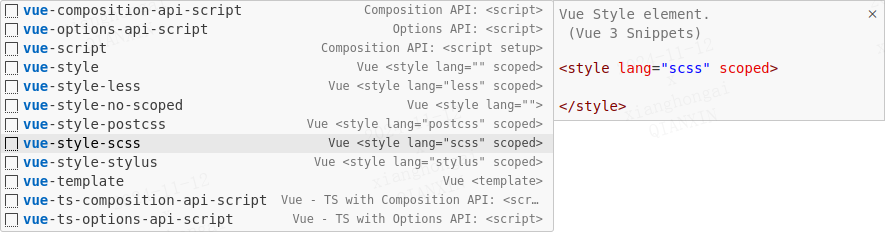
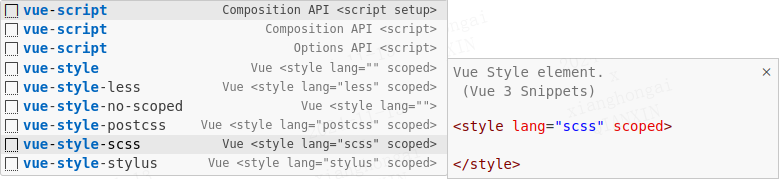
feat: upgrade SFC (2.0.0)

diff --git a/README.md b/README.md
@@ -30,15 +30,25 @@ This extension is not recommended for Vue 2.x, Please create Profiles in VS Code
 
 ## Introduction 📚
 
+"YES, YES, VERY SMOOTH, SUPER SMOOTH".
+
 There is no need to deliberately memorize it, you can generate code according to the Vue API **partial abbreviations**, and special handling required to **reduce conflicts**. You only need to understand the Extension design rules of this extension to release your energy.
+
+--
+
+来自一线、为了顺手调了又调的扩展 😎。
+
+理解本扩展的设计之后 (Vue API 部分缩写，以及减少冲突需要特别的处理方式)，无需刻意去死记硬背，几乎没有记忆成本，释放你的小宇宙！ ヾ(´︶`*)ﾉ♬ (Vue3 很多 Composition API 更接近语言了，不像 Options API 那样模式化)
+
+## Design 🖖
+
+Forget the framework, Focus on the business.
 
 --
 
 框架，框架，有别于灵活的语言，框架就是限定了各种条条框框，让开发者在限/约定的 API 中做事情；因此，开发者在编码过程中，在框架层面输入的字符要少之有少，应当通过代码片段或 AIGC 快速创建框架相关的代码结构，将更多的精力聚焦在业务逻辑代码上；本扩展就是用于辅助生成框架侧的代码。
 
 本扩展提供了 Vue 3 技术栈的代码片段，包括 Options API 、Composition API 和 Vue Router 4.x。
-
-理解本扩展的设计之后 (Vue API 部分缩写，以及减少冲突需要特别的处理方式)，几乎没有记忆成本，至少能帮助您提升 60% 的效率 ヾ(´︶`*)ﾉ♬ (Vue3 很多 Composition API 更接近语言了，不像 Options API 那样模式化)
 
 例如，监听一个 Props 值：
 
@@ -55,9 +65,9 @@ watch(
 );
 ```
 
-To get the above code, you only need to understand it as: <small><em><strong><u style="color: red;">w</u></strong>atch <strong><u style="color: red;">p</u></strong>rop<strong><u style="color: red;">s</u></strong> <strong><u style="color: red;">d</u></strong>eep <strong><u style="color: red;">i</u></strong>mmediate</em></small>, and then enter `wpsdi` through VS Code's Suggest Match and press Enter.
+To get the above code, you only need to understand it as: <small><em><strong><u style="color: red;">w</u></strong>atch props <strong><u style="color: red;">d</u></strong>eep <strong><u style="color: red;">i</u></strong>mmediate</em></small>, and then enter `wdi` through VS Code's Suggest Match and press Enter.
 
-想得到上面这一段代码，只需要理解为：<small><em><strong><u style="color: red;">w</u></strong>atch <strong><u style="color: red;">p</u></strong>rop<strong><u style="color: red;">s</u></strong> <strong><u style="color: red;">d</u></strong>eep <strong><u style="color: red;">i</u></strong>mmediate</em></small>, 然后通过 VS Code 自带的联想功能，输入 `wpsdi` 回车即可。
+想得到上面这一段代码，只需要理解为：<small><em><strong><u style="color: red;">w</u></strong>atch props <strong><u style="color: red;">d</u></strong>eep <strong><u style="color: red;">i</u></strong>mmediate</em></small>, 然后通过 VS Code 自带的联想功能，输入 `wdi` 回车即可。
 
 再例如，声明一个 Props 属性：
 
@@ -99,28 +109,20 @@ Same as above...
 Recommended editor settings (建议配置编辑器):
 
 ```
-"editor.inlineSuggest.enabled": true,
-"editor.suggestSelection": "first",
-"editor.suggest.localityBonus": true,
-"editor.suggest.preview": true,
+"editor.snippetSuggestions": "top",
 ```
 
 ### Single-File Components / 单文件组件
 
-The `vue` prefix generates Vue Single-File Components, Some examples:
+The `sfc` prefix generates Vue <strong><u style="color: red;">S</u></strong>ingle-<strong><u style="color: red;">F</u></strong>ile <strong><u style="color: red;">C</u></strong>omponents, Some examples:
 
-通过 `vue` 前缀触发，包涵大量创建 Vue 单文件组件的代码片段，部分示例如下：
+通过 `sfc` 前缀触发，包涵大量创建 Vue 单文件组件的代码片段，部分示例如下：
 
-| Prefix                               | VS Code Suggest Match | Snippet                                                                                                                                                                                                                                                                                                                                                                                                                                                                                                                                                  |
-|--------------------------------------|-----------------------|----------------------------------------------------------------------------------------------------------------------------------------------------------------------------------------------------------------------------------------------------------------------------------------------------------------------------------------------------------------------------------------------------------------------------------------------------------------------------------------------------------------------------------------------------------|
-| `vue`                                |                       | <small><em>\<template\><br>&nbsp;&nbsp;\<div\><br>&nbsp;&nbsp;&nbsp;&nbsp;\<!-- --\><br>&nbsp;&nbsp;\</div\><br>\</template\><br><br>\<script setup\><br><br>\</script\></em></small>                                                                                                                                                                                                                                                                                                                                                                    |
-| `vue` <br><br> `vue-composition-api` |                       | <small><em>\<template\><br>&nbsp;&nbsp;\<div\><br>&nbsp;&nbsp;&nbsp;&nbsp;\<!-- --\><br>&nbsp;&nbsp;\</div\><br>\</template\><br><br>\<script\><br>import { ref } from 'vue';<br><br>export default {<br>&nbsp;&nbsp;setup() {<br>&nbsp;&nbsp;&nbsp;&nbsp;const feature = ref();<br><br>&nbsp;&nbsp;&nbsp;&nbsp;return {<br>&nbsp;&nbsp;&nbsp;&nbsp;&nbsp;&nbsp;<br>&nbsp;&nbsp;&nbsp;&nbsp;};<br>&nbsp;&nbsp;},<br>};<br>\</script\></em></small>                                                                                                       |
-| `vue` <br><br> `vue-options-api`     |                       | <small><em>\<template\><br>&nbsp;&nbsp;\<div\><br>&nbsp;&nbsp;&nbsp;&nbsp;\<!-- --\><br>&nbsp;&nbsp;\</div\><br>\</template\><br><br>\<script\><br>export default {<br>&nbsp;&nbsp;name: 'TestIndex',<br><br>&nbsp;&nbsp;data() {<br>&nbsp;&nbsp;&nbsp;&nbsp;return {<br>&nbsp;&nbsp;&nbsp;&nbsp;&nbsp;&nbsp;<br>&nbsp;&nbsp;&nbsp;&nbsp;};<br>&nbsp;&nbsp;},<br><br>&nbsp;&nbsp;mounted() {<br>&nbsp;&nbsp;&nbsp;&nbsp;<br>&nbsp;&nbsp;},<br><br>&nbsp;&nbsp;methods: {<br>&nbsp;&nbsp;&nbsp;&nbsp;<br>&nbsp;&nbsp;},<br>};<br>\</script\></em></small> |
-| ...                                  |                       |                                                                                                                                                                                                                                                                                                                                                                                                                                                                                                                                                          |
-
-Full prefix screenshot (SFC) / 完整前缀截图 (单文件组件):
-
-![](./art//assets/newVue.png)
+| Full prefix screenshot (SFC) / 完整前缀截图 (单文件组件) |
+|----------------------------------------------------------|
+| ![](./art//assets/sfc-composition-api-script-setup.png)  |
+| ![](./art//assets/sfc-composition-api.png)               |
+| ![](./art//assets/sfc-options-api.png)                   |
 
 ### Vue Language Blocks / SFC 语法定义
 
@@ -135,14 +137,14 @@ The `vue-style` prefix generates a `<style>` language block, which contains diff
 
 `vue-style` 前缀生成 `<style>` 语言块，包含不同样式预处理语言块。
 
-| Prefix                       | VS Code Suggest Match | Snippet                                                                                                                                                                                                                                                                                                                                                                                                                        |
-|------------------------------|-----------------------|--------------------------------------------------------------------------------------------------------------------------------------------------------------------------------------------------------------------------------------------------------------------------------------------------------------------------------------------------------------------------------------------------------------------------------|
-| `vue-script`                 |                       | <small><em>\<script setup\><br><br>\</script\></em></small>                                                                                                                                                                                                                                                                                                                                                                    |
-| `vue-script-composition-api` |                       | <small><em>\<script\><br>import { ref } from 'vue';<br><br>export default {<br>&nbsp;&nbsp;setup() {<br>&nbsp;&nbsp;&nbsp;&nbsp;const feature = ref();<br><br>&nbsp;&nbsp;&nbsp;&nbsp;return {<br>&nbsp;&nbsp;&nbsp;&nbsp;&nbsp;&nbsp;<br>&nbsp;&nbsp;&nbsp;&nbsp;};<br>&nbsp;&nbsp;},<br>};<br>\</script\></em></small>                                                                                                       |
-| `vue-script-options-api`     |                       | <small><em>\<script\><br>export default {<br>&nbsp;&nbsp;name: 'TestIndex',<br><br>&nbsp;&nbsp;data() {<br>&nbsp;&nbsp;&nbsp;&nbsp;return {<br>&nbsp;&nbsp;&nbsp;&nbsp;&nbsp;&nbsp;<br>&nbsp;&nbsp;&nbsp;&nbsp;};<br>&nbsp;&nbsp;},<br><br>&nbsp;&nbsp;mounted() {<br>&nbsp;&nbsp;&nbsp;&nbsp;<br>&nbsp;&nbsp;},<br><br>&nbsp;&nbsp;methods: {<br>&nbsp;&nbsp;&nbsp;&nbsp;<br>&nbsp;&nbsp;},<br>};<br>\</script\></em></small> |
-| `vue-style-scss`             |                       | <small><em>\<style lang="scss" scoped\><br><br>\</style\></em></small>                                                                                                                                                                                                                                                                                                                                                         |
-| `vue-style-less`             |                       | <small><em>\<style lang="less" scoped\><br><br>\</style\></em></small>                                                                                                                                                                                                                                                                                                                                                         |
-| ...                          |                       |                                                                                                                                                                                                                                                                                                                                                                                                                                |
+| Prefix                                         | VS Code Suggest Match | Snippet                                                                                                                                                                                                                                                                                                                                                                                                                        |
+|------------------------------------------------|-----------------------|--------------------------------------------------------------------------------------------------------------------------------------------------------------------------------------------------------------------------------------------------------------------------------------------------------------------------------------------------------------------------------------------------------------------------------|
+| `vue-script`, Composition API `<script setup>` |                       | <small><em>\<script setup\><br>import { ref } from 'vue';<br><br>const feature = ref();<br>\</script\></em></small>                                                                                                                                                                                                                                                                                                            |
+| `vue-script`, Composition API                  |                       | <small><em>\<script\><br>import { ref } from 'vue';<br><br>export default {<br>&nbsp;&nbsp;setup() {<br>&nbsp;&nbsp;&nbsp;&nbsp;const feature = ref();<br><br>&nbsp;&nbsp;&nbsp;&nbsp;return {<br>&nbsp;&nbsp;&nbsp;&nbsp;&nbsp;&nbsp;<br>&nbsp;&nbsp;&nbsp;&nbsp;};<br>&nbsp;&nbsp;},<br>};<br>\</script\></em></small>                                                                                                       |
+| `vue-script`, Options API                      |                       | <small><em>\<script\><br>export default {<br>&nbsp;&nbsp;name: 'TestIndex',<br><br>&nbsp;&nbsp;data() {<br>&nbsp;&nbsp;&nbsp;&nbsp;return {<br>&nbsp;&nbsp;&nbsp;&nbsp;&nbsp;&nbsp;<br>&nbsp;&nbsp;&nbsp;&nbsp;};<br>&nbsp;&nbsp;},<br><br>&nbsp;&nbsp;mounted() {<br>&nbsp;&nbsp;&nbsp;&nbsp;<br>&nbsp;&nbsp;},<br><br>&nbsp;&nbsp;methods: {<br>&nbsp;&nbsp;&nbsp;&nbsp;<br>&nbsp;&nbsp;},<br>};<br>\</script\></em></small> |
+| `vue-style-scss`                               |                       | <small><em>\<style lang="scss" scoped\><br><br>\</style\></em></small>                                                                                                                                                                                                                                                                                                                                                         |
+| `vue-style-less`                               |                       | <small><em>\<style lang="less" scoped\><br><br>\</style\></em></small>                                                                                                                                                                                                                                                                                                                                                         |
+| ...                                            |                       |                                                                                                                                                                                                                                                                                                                                                                                                                                |
 
 Full prefix screenshot (Language Blocks) / 完整前缀截图 (SFC 语法定义):
 
@@ -196,16 +198,16 @@ The prefix screenshot (Computed) / 前缀截图:
 1. 直接生成 (Prefix)：`wdi` =  <small><em><strong><u style="color: red;">w</u></strong></em>atch-props-<em><strong><u style="color: red;">d</u></strong></em>eep-<em><strong><u style="color: red;">i</u></strong></em>mmediate</small>
 2. 联想匹配 (Suggest Match)：`wps` = <small><em><strong><u style="color: red;">w</u></strong>atch-<strong><u style="color: red;">p</u></strong>rop<strong><u style="color: red;">s</u></strong></em></small>。
 
-| Prefix                           | VS Code Suggest Match | Snippet                                                                                                                                                                                                                                                                                                                                                                                                                                                                                                                 |
-|----------------------------------|-----------------------|-------------------------------------------------------------------------------------------------------------------------------------------------------------------------------------------------------------------------------------------------------------------------------------------------------------------------------------------------------------------------------------------------------------------------------------------------------------------------------------------------------------------------|
-| `watch-props`                    |                       | <small><em><strong><u style="color: red;">w</u></strong>atch(<br>&nbsp;&nbsp;() => <strong><u style="color: red;">p</u></strong>rop<strong><u style="color: red;">s</u></strong>.property,<br>&nbsp;&nbsp;async (newValue, oldValue) => {<br>&nbsp;&nbsp;&nbsp;&nbsp;<br>&nbsp;&nbsp;},<br>);</em></small>                                                                                                                                                                                                              |
-| `watch-props-deep`               | `wd`                  | <small><em><strong><u style="color: red;">w</u></strong>atch(<br>&nbsp;&nbsp;() => <strong><u style="color: red;">p</u></strong>rop<strong><u style="color: red;">s</u></strong>.property,<br>&nbsp;&nbsp;async (newValue, oldValue) => {<br>&nbsp;&nbsp;&nbsp;&nbsp;<br>&nbsp;&nbsp;},<br>&nbsp;&nbsp;{<br>&nbsp;&nbsp;&nbsp;&nbsp;<strong><u style="color: red;">d</u></strong>eep: true,<br>&nbsp;&nbsp;}<br>);</em></small>                                                                                         |
-| `watch-props-immediate`          | `wi`                  | <small><em><strong><u style="color: red;">w</u></strong>atch(<br>&nbsp;&nbsp;() => <strong><u style="color: red;">p</u></strong>rop<strong><u style="color: red;">s</u></strong>.property,<br>&nbsp;&nbsp;async (newValue, oldValue) => {<br>&nbsp;&nbsp;&nbsp;&nbsp;<br>&nbsp;&nbsp;},<br>&nbsp;&nbsp;{<br>&nbsp;&nbsp;&nbsp;&nbsp;<strong><u style="color: red;">i</u></strong>mmediate: true,<br>&nbsp;&nbsp;}<br>);</em></small>                                                                                    |
-| `watch-props-deep-immediate`     | `wdi`                 | <small><em><strong><u style="color: red;">w</u></strong>atch(<br>&nbsp;&nbsp;() => <strong><u style="color: red;">p</u></strong>rop<strong><u style="color: red;">s</u></strong>.property,<br>&nbsp;&nbsp;async (newValue, oldValue) => {<br>&nbsp;&nbsp;&nbsp;&nbsp;<br>&nbsp;&nbsp;},<br>&nbsp;&nbsp;{<br>&nbsp;&nbsp;&nbsp;&nbsp;<strong><u style="color: red;">d</u></strong>eep: true,<br>&nbsp;&nbsp;&nbsp;&nbsp;<strong><u style="color: red;">i</u></strong>mmediate: true,<br>&nbsp;&nbsp;}<br>);</em></small> |
-| `watch-multiple-props-immediate` | `wmi`                 | <small><em><strong><u style="color: red;">w</u></strong>atch(<br>&nbsp;&nbsp;[() => <strong><u style="color: red;">p</u></strong>rop<strong><u style="color: red;">s</u></strong>.property1, () => props.property2],<br>&nbsp;&nbsp;async ([property1, property2]) => {<br>&nbsp;&nbsp;&nbsp;&nbsp;<br>&nbsp;&nbsp;},<br>&nbsp;&nbsp;{<br>&nbsp;&nbsp;&nbsp;&nbsp;<strong><u style="color: red;">i</u></strong>mmediate: true,<br>&nbsp;&nbsp;}<br>);</em></small>                                                      |
-| `watchEffect`                    | `wef`                 | <small><em><strong><u style="color: red;">w</u></strong>atch<strong><u style="color: red;">Ef</u></strong>fect(async () => {<br>&nbsp;&nbsp;<br>});</em></small>                                                                                                                                                                                                                                                                                                                                                        |
-| `watchPostEffect`                | `wpef`                | <small><em><strong><u style="color: red;">w</u></strong>atch<strong><u style="color: red;">P</u></strong>ost<strong><u style="color: red;">Ef</u></strong>fect(async () => {<br>&nbsp;&nbsp;<br>});</em></small>                                                                                                                                                                                                                                                                                                        |
-| `watchSyncEffect`                | `wsef`                | <small><em><strong><u style="color: red;">w</u></strong>atch<strong><u style="color: red;">S</u></strong>ync<strong><u style="color: red;">Ef</u></strong>fect(() => {<br>&nbsp;&nbsp;<br>});</em></small>                                                                                                                                                                                                                                                                                                              |
+| Prefix                       | VS Code Suggest Match | Snippet                                                                                                                                                                                                                                                                                                                                                                                                                                                                                                                 |
+|------------------------------|-----------------------|-------------------------------------------------------------------------------------------------------------------------------------------------------------------------------------------------------------------------------------------------------------------------------------------------------------------------------------------------------------------------------------------------------------------------------------------------------------------------------------------------------------------------|
+| `watch-props`                |                       | <small><em><strong><u style="color: red;">w</u></strong>atch(<br>&nbsp;&nbsp;() => <strong><u style="color: red;">p</u></strong>rop<strong><u style="color: red;">s</u></strong>.property,<br>&nbsp;&nbsp;async (newValue, oldValue) => {<br>&nbsp;&nbsp;&nbsp;&nbsp;<br>&nbsp;&nbsp;},<br>);</em></small>                                                                                                                                                                                                              |
+| `watch-props-deep`           | `wd`                  | <small><em><strong><u style="color: red;">w</u></strong>atch(<br>&nbsp;&nbsp;() => <strong><u style="color: red;">p</u></strong>rop<strong><u style="color: red;">s</u></strong>.property,<br>&nbsp;&nbsp;async (newValue, oldValue) => {<br>&nbsp;&nbsp;&nbsp;&nbsp;<br>&nbsp;&nbsp;},<br>&nbsp;&nbsp;{<br>&nbsp;&nbsp;&nbsp;&nbsp;<strong><u style="color: red;">d</u></strong>eep: true,<br>&nbsp;&nbsp;}<br>);</em></small>                                                                                         |
+| `watch-props-immediate`      | `wi`                  | <small><em><strong><u style="color: red;">w</u></strong>atch(<br>&nbsp;&nbsp;() => <strong><u style="color: red;">p</u></strong>rop<strong><u style="color: red;">s</u></strong>.property,<br>&nbsp;&nbsp;async (newValue, oldValue) => {<br>&nbsp;&nbsp;&nbsp;&nbsp;<br>&nbsp;&nbsp;},<br>&nbsp;&nbsp;{<br>&nbsp;&nbsp;&nbsp;&nbsp;<strong><u style="color: red;">i</u></strong>mmediate: true,<br>&nbsp;&nbsp;}<br>);</em></small>                                                                                    |
+| `watch-props-deep-immediate` | `wdi`                 | <small><em><strong><u style="color: red;">w</u></strong>atch(<br>&nbsp;&nbsp;() => <strong><u style="color: red;">p</u></strong>rop<strong><u style="color: red;">s</u></strong>.property,<br>&nbsp;&nbsp;async (newValue, oldValue) => {<br>&nbsp;&nbsp;&nbsp;&nbsp;<br>&nbsp;&nbsp;},<br>&nbsp;&nbsp;{<br>&nbsp;&nbsp;&nbsp;&nbsp;<strong><u style="color: red;">d</u></strong>eep: true,<br>&nbsp;&nbsp;&nbsp;&nbsp;<strong><u style="color: red;">i</u></strong>mmediate: true,<br>&nbsp;&nbsp;}<br>);</em></small> |
+| `watch-multiple-props`       | `wm`                  | <small><em><strong><u style="color: red;">w</u></strong>atch(<br>&nbsp;&nbsp;[() => <strong><u style="color: red;">p</u></strong>rop<strong><u style="color: red;">s</u></strong>.property1, () => props.property2],<br>&nbsp;&nbsp;async ([property1, property2]) => {<br>&nbsp;&nbsp;&nbsp;&nbsp;<br>&nbsp;&nbsp;},<br>&nbsp;&nbsp;{<br>&nbsp;&nbsp;&nbsp;&nbsp;<strong><u style="color: red;">i</u></strong>mmediate: true,<br>&nbsp;&nbsp;}<br>);</em></small>                                                      |
+| `watchEffect`                | `wef`                 | <small><em><strong><u style="color: red;">w</u></strong>atch<strong><u style="color: red;">Ef</u></strong>fect(async () => {<br>&nbsp;&nbsp;<br>});</em></small>                                                                                                                                                                                                                                                                                                                                                        |
+| `watchPostEffect`            | `wpef`                | <small><em><strong><u style="color: red;">w</u></strong>atch<strong><u style="color: red;">P</u></strong>ost<strong><u style="color: red;">Ef</u></strong>fect(async () => {<br>&nbsp;&nbsp;<br>});</em></small>                                                                                                                                                                                                                                                                                                        |
+| `watchSyncEffect`            | `wsef`                | <small><em><strong><u style="color: red;">w</u></strong>atch<strong><u style="color: red;">S</u></strong>ync<strong><u style="color: red;">Ef</u></strong>fect(() => {<br>&nbsp;&nbsp;<br>});</em></small>                                                                                                                                                                                                                                                                                                              |
 
 The prefix screenshot (Watch) / 前缀截图:
 
@@ -417,6 +419,8 @@ Full prefix screenshot (Vue Router) / 完整前缀截图 (Vue 路由):
 
 (2). Router Instance (Options API) / Router 实例 (选项式接口)
 
+<em><strong><u style="color: red;">vm</u></strong></em>-<strong><u style="color: red;">r</u></strong>outer-<strong><u style="color: red;">p</u></strong>ush-<strong><u style="color: red;">n</u></strong>ame-<strong><u style="color: red;">p</u></strong>arams-<strong><u style="color: red;">q</u></strong>uery
+
 ![](./art/assets/router-vm.png)
 
 (3). Route Property (Options API) / Route 属性 (选项式接口)
@@ -424,6 +428,8 @@ Full prefix screenshot (Vue Router) / 完整前缀截图 (Vue 路由):
 ![](./art/assets/route-vm.png)
 
 (4). Router Instance (Composition API) / Router 实例 (组合式接口)
+
+<strong><u style="color: red;">r</u></strong>outer-<strong><u style="color: red;">p</u></strong>ush-<strong><u style="color: red;">n</u></strong>ame-<strong><u style="color: red;">p</u></strong>arams-<strong><u style="color: red;">q</u></strong>uery
 
 ![](./art/assets/router.png)
 
